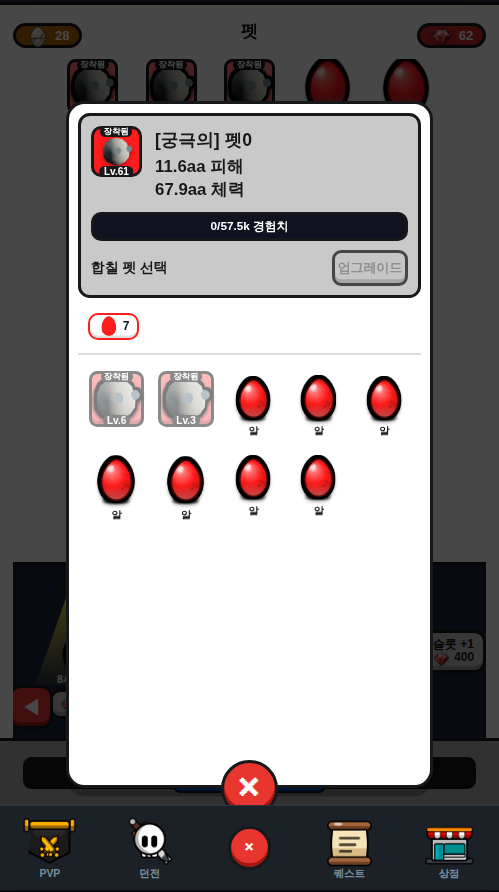
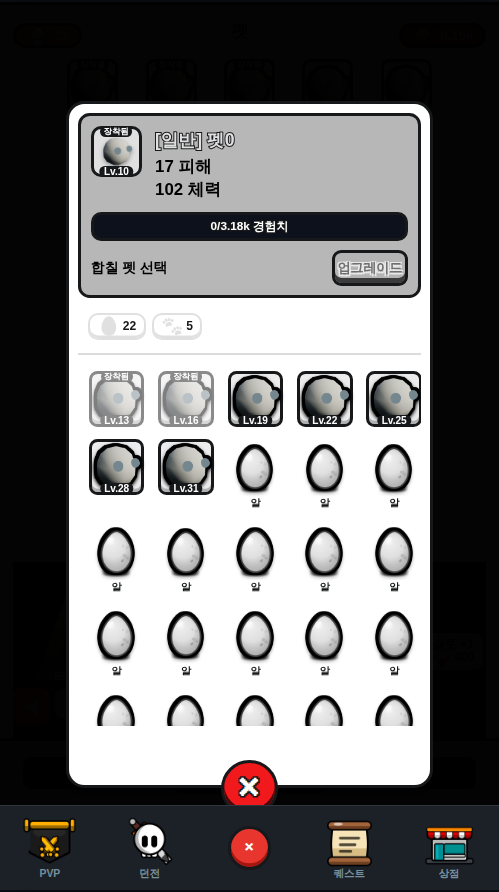
[claim-refresh] aaa-skin

diff --git a/web/css/style.css b/web/css/style.css
@@ -1174,7 +1174,11 @@ body {
 
 /* ---- 모달/토스트 ---- */
 .modal {
-    position: absolute; inset: 0; background: rgba(0,0,0,.72); z-index: 20; /* 원본 딤 강도 (185 재채점) */
+    /* 🚨 딤은 원본에서 사실상 불투명 검정이다 — .72 는 너무 옅었다(2026-08-18 ⑬ 세션 실측).
+       팝업 원본 5장(042503·042449·042304·042831·042208)의 탭바 행 y=862 을 전부 재 보면 배경이
+       #000000~#010203 이고, 042831 은 x30~300 전 구간이 **한 값(#010203)** 이라 내용이 남아 있지 않다.
+       역산: 클론 탭바 면 #1c2128 → 0 이 되려면 a>.988, 빨간 ✕ #e8362f → #010000 이 되려면 a≈.996. */
+    position: absolute; inset: 0; background: rgba(0,0,0,.985); z-index: 20;
     display: flex; align-items: center; justify-content: center;
 }
 .modal.hidden, .hidden { display: none !important; }
@@ -3009,11 +3013,11 @@ body {
 }
 /* 원본: 상단 대상 카드+경험치바+선택행은 회색 패널로 묶임, 경험치바는 검정 pill+파란 채움 */
 .petup-panel {
-    background: #c9c9c9; border: var(--ol3) solid var(--pp-line); border-radius: .7rem;
+    background: #b7b7b7; border: var(--ol3) solid var(--pp-line); border-radius: .7rem;
     padding: .6rem .6rem .55rem; margin-bottom: .7rem;
 }
 .petup-xpbar {
-    position: relative; height: 1.78rem; /* 원본 30px = 3.37%H */ background: #10131f; border: var(--ol3) solid var(--pp-line);
+    position: relative; height: 1.78rem; /* 원본 30px = 3.37%H */ background: #0d111b; border: var(--ol3) solid var(--pp-line);
     border-radius: .6rem; overflow: hidden; margin: .6rem 0 .5rem;
 }
 .petup-xpbar div { position: absolute; left: 0; top: 0; bottom: 0; width: 0; background: var(--pp-blue); }
@@ -3805,6 +3809,53 @@ body {
 }
 /* 타일 위 Lv 글자도 원본은 흰 채움 + 검정 키라인이다(리본 글자 y=419 스캔이 #ffffff). */
 .petd-wrap .petd-tile .sk-lv { color: #fff; -webkit-text-stroke: 2.5px var(--pp-line); paint-order: stroke fill; }
+
+/* ---- ⑬ 펫 업그레이드 팝업 AAA 스킨 (원본 shot-042503 픽셀 실측 2026-08-18 · 배치는 손대지 않는다) ----
+   ① 레이아웃은 probe-petupgrade-dom.js 21요소 **초과 0건**(최대 +0.99%p)이라 한 줄도 안 건드렸다.
+   아래는 전부 원본 505×889 의 색 단면에서 뽑은 값이고, `.petup-*` 은 이 팝업 전용 클래스지만
+   `.x-btn`·`.idet-name`·`.idet-main` 은 공용이라 스코프를 걸었다(⑫ 가 `.petd-wrap` 으로 한 것과 같은 이유).
+   ㉠ 회색 패널 면 = x250 y109 **#b7b7b7** (클론 #c9c9c9 는 18단계 밝았다) — 위 .petup-panel 에 반영.
+   ㉡ 경험치 바 트랙 = x250 y203 **#0d111b** (클론 #10131f) — 위 .petup-xpbar 에 반영.
+      채움은 x105 y204~227 **#005dff** 로 `--pp-blue` 와 이미 같다. ⚠ 아래 1px #001e52 를 베벨로
+      **오독하지 말 것** — 위쪽 y203 에도 같은 폭의 전이 픽셀이 있어 대칭이므로 안티에일리어싱이다.
+   ㉢ 바 글자 = 흰 채움 + 검정 키라인(y216 가로 단면에서 #ffffff 획 양옆이 #000000).
+   ㉣ 업그레이드(실버) 버튼 = 면 **#a3a3a3 단색** · 아래턱 **#323132** 6px · 검정 테두리(x370 세로 단면
+      y247 검정 → 249~281 면 → 282~287 턱 → 288 검정). 글자는 **검정 + 흰 외곽선**이다 —
+      y267 가로 단면에서 어두운 획이 3~4px, 흰 픽셀이 1~2px 라 흰 쪽이 외곽선이다(⑫ 의 파랑·빨강
+      버튼은 반대로 흰 획 + 검정 키라인이었다: **실버=검정글자/유색=흰글자** 가 원본의 규칙).
+      던전 상세(042304)에서 독립적으로 뽑은 `.dgd-btn.silver` 값과 정확히 같아 서로 교차검증된다. */
+.petup-xpbar span { -webkit-text-stroke: 2.5px var(--pp-line); paint-order: stroke fill; }
+.petup-selrow .btn.silver {
+    background: #a3a3a3;
+    box-shadow: inset 0 -.3rem 0 #323132;
+    color: #000;
+    text-shadow: -1.5px -1.5px 0 #fff, 1.5px -1.5px 0 #fff, -1.5px 1.5px 0 #fff, 1.5px 1.5px 0 #fff;
+}
+.petup-selrow .btn.silver:active { box-shadow: none; }
+/* 비활성 [업그레이드] — 공용 `.modal-card .btn.disabled` 의 `opacity:.75` 가 **면·아래턱·키라인을 통째로
+   흐리게** 만든다(캡처 실측: 면 #a3a3a3→#a8a8a8 · 턱 #323132→#3f3f41 · 검정 글자 → #2d2d2d).
+   원본에는 재료가 선택돼 있어 비활성 컷이 없으므로 조형을 지어내지 않고, 이미 같은 문제를 처리해 둔
+   `.skd-btn.silver.disabled` 의 처방을 그대로 따른다 — 불투명도를 되돌리고 글자만 회색으로 죽인다. */
+.petup-selrow .btn.silver.disabled {
+    opacity: 1; background: #b4b4b4; color: #6f6f6f;
+    box-shadow: inset 0 -.3rem 0 #3b3b3b;
+    text-shadow: -1.5px -1.5px 0 #e8e8e8, 1.5px -1.5px 0 #e8e8e8, -1.5px 1.5px 0 #e8e8e8, 1.5px 1.5px 0 #e8e8e8;
+}
+/* ㉤ ✕ = 면 **#f2191d** · 아래턱 **#4a0709** 5px(x250 세로 단면 y768~785 면 → y813~817 턱 → y818 검정) ·
+   글리프는 흰 획 + 검정 키라인(y791~795 #ffffff 뒤 y797~799 #000000). ⑫ 가 `.petd-wrap` 에서 뽑은 값과
+   같지만 그쪽 스코프는 이 팝업에 안 닿는다 — 전역 `--pp-red`(#e8362f)/`--pp-red-dk`(#a51710)는
+   화면마다 달라 건드리지 않고 여기에만 준다. */
+#pet-upgrade-modal .x-btn {
+    background: #f2191d; box-shadow: inset 0 -.28rem 0 #4a0709;
+    color: #fff; -webkit-text-stroke: 3px var(--pp-line); paint-order: stroke fill;
+}
+/* ㉥ 이름 줄 = 원본은 `[궁극의] 트렌트` 전체가 **등급 원색 + 검정 키라인**이다(x250 세로 단면 y123~133 이
+   #ff1c1c 이고 획 경계가 #050000·#090101). 클론은 --pp-ink 한 색이었다. ⑫ 와 같은 처방.
+   ㉦ 스탯 2줄은 **순검정**(x180 y145·y160·y168 이 전부 #000000) — --pp-ink(#17181a)보다 진하다.
+      '합칠 펫 선택' 라벨도 같다(x100 y266 #0b0b0b). */
+.petup-panel .idet-name { color: var(--rc, var(--pp-ink)); -webkit-text-stroke: 2px var(--pp-line); paint-order: stroke fill; }
+.petup-panel .idet-main { color: #000; }
+.petup-sellabel { color: #000; }
 
 .petd-share {
     position: absolute; top: .55rem; right: .55rem; cursor: pointer;

diff --git a/web/js/ui.js b/web/js/ui.js
@@ -2843,8 +2843,8 @@ const UI = {
             <div class="idet-wrap">
                 <div class="modal-card paper petup-card">
                     <div class="petup-panel">
-                    <div class="petup-head">
-                        <div class="petup-icon" style="--rc:${RARITY_CSS[target.rarity]}">
+                    <div class="petup-head" style="--rc:${RARITY_CSS[target.rarity]}">
+                        <div class="petup-icon">
                             ${UI.petFace(target.name, 'mt-inline')}
                             ${active ? '<span class="sk-ribbon">장착됨</span>' : ''}
                             <span class="sk-lv">Lv.${target.level}</span>

diff --git a/web/TODO.md b/web/TODO.md
@@ -355,6 +355,8 @@
 
 ### 🐛 QA 발견 버그
 
+- [ ] **팝업 딤이 탭바를 못 덮는다 — 원본은 탭바까지 새까맣다 (slug: modal-dim-tabbar)** (2026-08-18 UI 세션이 `aaa-skin` ⑬ 작업 중 실측으로 발견): 원본 팝업 **5장**(042503·042449·042304·042831·042208) 모두 탭바 행 `y=862` 이 **#000000~#010203** 으로, 팝업이 열리면 탭바가 통째로 덮인다. 클론은 딤을 원본값(`rgba(0,0,0,.985)`, ⑬ 에서 교정)으로 올려도 탭바만 그대로 밝다 — **`#tabbar` 가 `z-index:30` 이라 `.modal`(20) 위에 뜨기 때문**이다(style.css 여러 곳에 이 사실이 주석으로 남아 있다: 1716·2020·3216·3917행 부근). ⚠ **z-index 를 그냥 뒤집지 말 것** — 탭바의 '팝업이 열린 탭은 빨간 원형 ✕'(UI-SPEC 공통 레이아웃)가 **닫기 어포던스**라, 딤 아래로 내리면 보이지도 눌리지도 않는다. 원본이 어떻게 닫게 하는지(팝업 자체 ✕만 쓰는지)를 원본 스샷으로 먼저 확인한 뒤 정할 것. 스킨이 아니라 구조·UX 판단이라 ⑬ 세션은 등재만 했다.
+
 - [x] **늑대 등 다크 새들(`backStripe`)이 만들어만 지고 씬에 안 붙는다 — 죽은 코드 (slug: wolf-backstripe-dead)** (2026-08-18 3D 세션이 `enemy-quality` ⓒ 작업 중 프로브로 발견): `scene3d.js` 늑대 분기에서 `backStripe` 를 만들어 위치·스케일까지 주고는 **`g.add()` 를 안 한다**(바로 다음 줄 `bellyW` 만 `g.add(bellyW)` 로 붙는다). 그래서 주석이 말하는 '목덜미→엉덩이 한 흐름으로 세그먼트 경계 은폐'가 화면에서 **한 번도 일어난 적이 없다**. 발견 경위: 털 재질 구를 세는 프로브가 17개를 잡았는데 코드상 18개여야 해서 역추적했다. ⚠ 고칠 때 **그냥 `g.add(backStripe)` 만 하고 끝내지 말 것** — 등 전체를 덮는 어두운 타원(scale 0.78/0.5/2.45)이 새로 들어오는 것이라 흉곽·골반 실루엣과 AO 링(`probe-enemy-ao` 늑대 5개)에 그대로 영향을 준다. 붙인 뒤 `probe-enemy-ao` 늑대 후프 유출과 `enemy-wolf.png` 를 다시 볼 것. (규칙 3에 따라 진행 중이던 항목을 끊지 않고 등재만 함.)
   - **[해결 2026-08-18 3D 스트림]** 경고대로 `g.add(backStripe)` 한 줄로 끝내면 **안 되는 게 맞았다** — 등마루 상면을 해석으로 떠서 죽어 있던 원래 값을 재보니 **두 방향으로 동시에 틀려 있었다**: 흉곽 위(z 0.04~0.28)에서는 몸 속에 **0.016~0.032 파묻혀 한 픽셀도 안 나오고**, 반대로 뒤로는 몸이 끝난 **z −0.40 까지 뻗어** 그 높이의 몸 반폭을 **0.067 넘겨** 엉덩이 뒤 허공에 검은 덩어리로 뜬다(꼬리 밑동 자리다). 그대로 붙였으면 '고쳤는데 더 이상해졌다'가 됐을 자리다.
     · **한 덩어리로는 원리상 못 맞춘다**: 등마루가 z 0.12 에서 y 0.595 로 솟았다가 z −0.12 의 0.536 으로 꺼지는 곡선인데, 타원체 상면은 중심 부근이 평평해 두 지점을 동시에 못 탄다. 그래서 마루를 **3분절로 따라가게** 바꿨다(기갑~흉곽 / 흉곽→연결통 이음새 / 연결통→골반~엉덩이). 가운데 분절을 빼면 **정확히 흉곽·연결통 이음새(z −0.04~−0.08)에서만 돌출이 +0.038→+0.014 로 꺼져** 가리려던 그 이음새가 도로 드러난다(실측) — 3개는 장식이 아니다.
@@ -2037,6 +2039,19 @@
       · ⚠ **프로브 함정 1개(기록)**: 정적 프로브에서 `Combat.tick` 을 끄면 ⓐ aoe 대상이 사거리(x<3.2) 밖 스폰 위치에 서 있어 0명이 되고 ⓑ pending 시계를 substep 반올림으로 흘리면(round(sec*120)) 12ms 요청에 8.3ms 만 흘러 250ms 셰이크가 캡처 창 밖으로 밀린다. 둘 다 프로브에서 고쳤다(적을 사거리로 당김 · pending 은 한 번에 정확히 sec).
       · **회귀**: `probe-screens-errors` **31/31 화면 콘솔 에러 0** · `node --check` combat.js·scene3d.js OK · `shot-skillfx-seq powerStrike` 1박 존재·콘솔 에러 0.
 - [ ] **전 화면 AAA 스킨 업그레이드 (화면당 커밋 하나, 재작업 목록 순서대로)**: 지금 UI는 원본 레이아웃 재현까지는 됐지만 비주얼이 원본 수준(플랫)에 머물러 있다. 화면별로: ① **레이아웃 검증** — 원본 shot을 Read로 열고 클론 스크린샷과 겹쳐 요소별 위치/크기/간격/폰트 비율이 어긋나지 않는지 확인, 어긋나면 먼저 교정 (레이아웃은 원본이 절대 기준 — 임의 변경 금지) ② **AAA 스킨** — 배치는 그대로 두고 표면 품질만 끌어올린다: 다층 그라디언트·미묘한 노이즈/텍스처, 버튼 입체감(하이라이트 엣지+아래턱+눌림 상태), 카드 깊이(레이어드 그림자·앰비언트 글로우), 등급색 보석/금속 질감, 아이콘 정제(이모지 그대로 두더라도 배경 배지·림 라이트로 고급화), 타이포 위계(굵기·자간·외곽선 정리), 게이지 광택/애니메이션, 팝업 등장 트랜지션(스케일+페이드 이징) ③ 성능: CSS 위주(대형 blur 남용 금지), 60fps 유지 ④ 검증: 비평가(Task 서브에이전트) 이중 채점 — (a) 레이아웃이 원본 스크린샷과 비율까지 일치하는가 (b) 비주얼이 'AAA 모바일 게임 UI 스크린샷으로 믿을 수 있는가' 절대 기준 10점 중 9점 이상, 둘 다 통과해야 커밋. 대상 화면 목록은 위 'UI 레이아웃 전면 재작업' 섹션의 재작업 체크리스트(17개 화면 + 통과 화면들)를 그대로 재사용하고, 화면마다 진행 메모를 남길 것.
+  - **진행 메모 ⑬ 펫 업그레이드 팝업 (UI 스트림, 2026-08-18 — 재작업 목록 13번 화면. 항목은 [ ] 유지, 비평가 채점 미실시)**: 원본 `shot-042503`(505×889) 대조. 락 슬러그 `aaa-skin`. ① 레이아웃은 `probe-petupgrade-dom.js` 를 먼저 돌려 **21요소 초과 0건**(최대 +0.99%p)을 확인하고 **한 줄도 안 건드렸다** — 이 세션의 변경은 전부 색·획이라 DOM 박스에 안 닿는다.
+    - ⚠ **원본의 '선택 슬롯 1칸 + 밑줄 5개' 행은 복원 대상이 아니다.** 클론의 등급별 일괄 선택 버튼 행은 사용자 지시("개수 제한 철폐")로 대체한 것이라(`renderPetUpgrade` 주석) 원본과 다른 게 정상이고, 프로브도 그 자리의 세로 위치를 게이트에서 빼 뒀다. 원본만 보고 되돌리지 말 것.
+    - 🚨 **가장 큰 차이는 이 화면 것이 아니라 전역 딤이었다 — `.modal` 배경 `rgba(0,0,0,.72)` 는 너무 옅다.** 원본 팝업 **5장**(042503·042449·042304·042831·042208)의 탭바 행 `y=862` 을 전부 재 보면 배경이 **#000000~#010203** 이고, 042831 은 x30~300 전 구간이 **한 값(#010203)** 이라 내용이 남아 있지 않다. 역산: 클론 탭바 면 `#1c2128` 이 0 이 되려면 a>.988, 빨간 ✕ `#e8362f` 가 `#010000` 이 되려면 a≈.996 → **`.985` 로 올렸다.** 종전 값에 붙어 있던 '원본 딤 강도(185 재채점)' 주석은 실측과 어긋나 교체했다. 교정 후 카드 위 배경(x250 y0~100) 클론 **#000000~#040404** vs 원본 #010000~#020202 로 일치. `.modal` 은 22개 전부 같은 클래스라 전 팝업에 균일하게 적용된다.
+    - ② **원본 픽셀 단면에서 값을 뽑아 교정** (전부 `.petup-*` 전용 클래스이거나 스코프를 건 것 — `.x-btn`·`.idet-name`·`.idet-main` 은 공용이라 ⑫ 가 `.petd-wrap` 으로 한 것과 같은 이유로 가뒀다):
+      · **회색 패널** = 원본 x250 y109 **#b7b7b7**, 클론 `#c9c9c9` 로 18단계 밝았다 → 교체 후 클론 실측 #b7b7b7 일치.
+      · **경험치 바 트랙** = 원본 **#0d111b**, 클론 `#10131f` → 교체 후 일치. 채움은 x105 y204~227 **#005dff** 로 `--pp-blue` 와 이미 같아 안 건드렸다. ⚠ **채움 아래 1px `#001e52` 를 아래턱으로 오독하지 말 것** — 위쪽 y203 에도 같은 폭의 전이 픽셀이 있어 **대칭이므로 안티에일리어싱**이다(베벨을 넣었다면 원본에서 멀어졌다). 바 글자는 흰 채움 + 검정 키라인(y216 가로 단면).
+      · 🚨 **실버 버튼 라벨은 ⑫ 와 반대다 — 검정 글자 + 흰 외곽선.** y267 가로 단면에서 어두운 획이 3~4px, 흰 픽셀이 1~2px 라 **흰 쪽이 외곽선**이다. ⑫ 의 파랑·빨강 버튼은 흰 획 + 검정 키라인이었다 → 원본 규칙은 **유색 버튼=흰 글자 / 실버 버튼=검정 글자**. 면 **#a3a3a3 단색** · 아래턱 **#323132**(x370 단면 y249~281 면 → 282~287 턱)로, **던전 상세(042304)에서 독립적으로 뽑아 둔 `.dgd-btn.silver` 값과 정확히 일치**해 서로 교차검증됐다.
+      · **✕** = 면 **#f2191d** · 아래턱 **#4a0709** 5px · 글리프 흰 획 + 검정 키라인. ⑫ 가 뽑은 값과 같지만 그쪽 `.petd-wrap` 스코프는 이 팝업에 안 닿아 `#pet-upgrade-modal` 로 따로 줬다(전역 `--pp-red` 는 화면마다 달라 안 건드린다).
+      · **이름 줄** = 원본 `[궁극의] 트렌트` 전체가 **등급 원색 #ff1c1c + 검정 키라인**(x250 y123~133). 클론은 `--pp-ink` 한 색이었다 → ⑫ 와 같은 처방. `--rc` 가 `.petup-icon` 에만 인라인으로 있어 형제인 제목에 안 닿았으므로 **`.petup-head` 로 올렸다**(ui.js 한 줄).
+      · **스탯 2줄·'합칠 펫 선택'** = 원본 **순검정**(x180 y145·160·168 / x100 y266 #0b0b0b), 클론은 `--pp-ink #17181a` 였다.
+      · **비활성 업그레이드 버튼**: 공용 `.modal-card .btn.disabled` 의 `opacity:.75` 가 면·턱·키라인을 통째로 흐리게 만든다(캡처 실측 면 #a3a3a3→#a8a8a8 · 턱 #323132→#3f3f41 · 검정 글자→#2d2d2d). **원본에는 재료가 선택돼 있어 비활성 컷이 없으므로 조형을 지어내지 않고**, 같은 문제를 이미 처리해 둔 `.skd-btn.silver.disabled` 처방(불투명도 복원 + 글자만 회색)을 그대로 따랐다.
+    - ⚠ **함정 기록 — 클론 캡처의 ✕ 글리프 둘레에 파랑(#346eb7)·주황(#5f3c21) 픽셀이 낀다. 버그가 아니라 크로미움 서브픽셀 안티에일리어싱이다.** 흰 획 양옆에 보색 프린지가 생기는 것이라, 색 단면만 보고 '파란 요소가 새로 생겼다'고 오진하기 쉽다(이 세션도 한 번 의심했다). 원본은 그레이스케일 AA 라 프린지가 없다.
+    - 📌 **다음 세션이 이어받을 것** — ⓐ **이 화면의 비평가 2인 채점(미실시)**. ⓑ 🚨 **딤을 올려도 탭바는 안 어두워진다** — `#tabbar` 가 `z-index:30` 이라 `.modal`(20) **위**에 뜬다(코드 곳곳에 그 사실이 주석으로 남아 있다). 원본은 탭바까지 새까맣게 덮으므로 여기에 실제 차이가 남아 있는데, 탭바의 '팝업 열림 = 빨간 ✕' 는 UI-SPEC 공통 동작이라 z-index 를 뒤집으면 **닫기 어포던스가 사라진다** → 스킨이 아니라 구조·UX 판단이라 손대지 않고 QA 항목 `modal-dim-tabbar` 로 등재했다. ⓒ 시드 펫이 '일반' 등급이라 원본(궁극의)과 등급색이 달라, 채점용 합성 캡처를 뜨려면 ⑫ 메모 ⓑ 와 같은 시드 주입이 필요하다. ⓓ 알 스프라이트 색(원본 #671717/#9b2525 어두운 적색 vs 클론 밝은 적색)은 `icon-gen` 소관이라 그대로 뒀다. ⓔ 다음 화면은 재작업 목록 **⑭ 플레이어 정보 팝업(shot-043313)**.
   - **진행 메모 ⑫ 펫 상세 팝업 (UI 스트림, 2026-08-18 04:2x~04:4x — 재작업 목록 12번 화면. 항목은 [ ] 유지, 비평가 채점 미실시)**: 원본 `shot-042449`(490×886) 대조. 락 슬러그 `aaa-skin`. ① 레이아웃은 `probe-petdetail-dom.js` 를 먼저 돌려 **17요소 초과 0건**(최대 +1.94%p, 크롭 보정 후 −0.32%p)을 확인하고 손대지 않았다 — 이 세션의 변경은 **전부 색·획뿐이라 DOM 박스를 안 건드린다**(변경 후 재실행도 같은 수치).
     - ② **원본 픽셀 세로 단면에서 값을 뽑아 6건 교정, 전부 `.petd-wrap` 스코프**(`.petd-btn`·`.petd-tile`·`.x-btn` 은 알 상세·탈것 상세와 공용이고 그 두 화면은 아직 원본 대조 전이다 — 전역에 두면 재보지도 않은 화면이 끌려간다):
       · **버튼 빨강이 흐렸다** — 원본 제거 버튼 면 **#f2191d**(x=310 단면) 인데 클론은 전역 `--pp-red` **#e8362f** 를 그대로 썼다. 전역 토큰은 화면마다 달라(채팅은 이미 `#ff1017` 로 따로 준다) 건드리지 않고 이 팝업에만 준다. ✕ 버튼도 같은 값.
